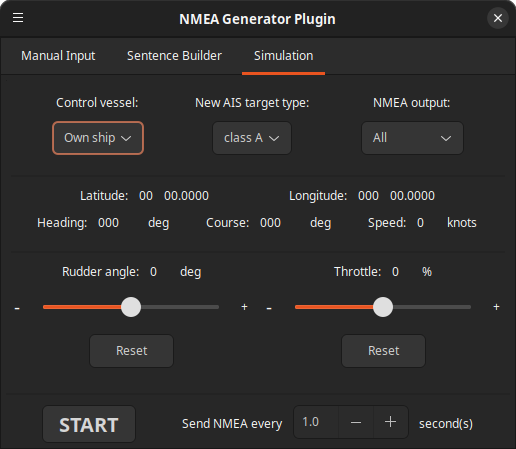
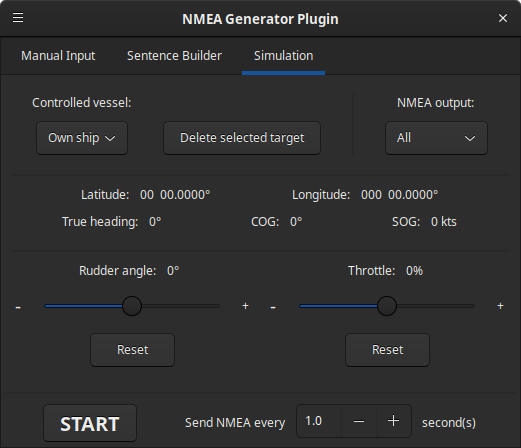
Button to delete selected AIS target

diff --git a/docs/nmeagenerator_plugin/index.html b/docs/nmeagenerator_plugin/index.html
@@ -86,10 +86,10 @@
 <h2 id="_manual_version"><a class="anchor" href="#_manual_version"></a>Manual Version</h2>
 <div class="sectionbody">
 <div class="paragraph">
-<p>This manual applies to <strong>version 1.2.0</strong>.</p>
+<p>This manual applies to <strong>version 1.2.1</strong>.</p>
 </div>
 <div class="paragraph">
-<p>See what&#8217;s changed in the <a href="https://github.com/Kupofty/NmeaGenerator_pi/blob/main/CHANGELOG.md">CHANGELOG</a>.</p>
+<p>See what&#8217;s changed in the <a href="https://github.com/Kupofty/NmeaGenerator_pi/blob/github-pages/CHANGELOG.md">CHANGELOG</a>.</p>
 </div>
 <div class="paragraph">
 <p>Previous versions of the manual:</p>
@@ -454,7 +454,7 @@ For more information, see the INSTALL.md file in the GitHub repository.</p>
 <p><strong>Control vessel:</strong> Selects the vessel currently controlled by the throttle and rudder sliders. The list always contains the own ship and any created AIS targets. Vessels that are not currently selected continue moving using their last speed and rudder settings.</p>
 </li>
 <li>
-<p><strong>AIS type:</strong> Sets the new AIS target type: Class A, Class B, or ARPA radar target.</p>
+<p><strong>Delete selected target:</strong> Delete the selected AIS target from the list. Can not delete own ship.</p>
 </li>
 <li>
 <p><strong>NMEA output:</strong> Selects which data is transmitted:</p>
@@ -540,7 +540,10 @@ For more information, see the INSTALL.md file in the GitHub repository.</p>
 <p><strong>Update position:</strong> Move the own ship or the currently selected AIS target to the cursor position.</p>
 </li>
 <li>
-<p><strong>AIS targets:</strong> Create a new AIS target at the cursor position, delete the last created AIS target, or remove all AIS targets.</p>
+<p><strong>Add AIS targets:</strong> Create a new AIS target (class A, B or ARPA) at the cursor position.</p>
+</li>
+<li>
+<p><strong>Delete AIS targets:</strong> delete the last created AIS target, or remove all AIS targets.</p>
 </li>
 </ul>
 </div>

diff --git a/src/main-ui/main_ui_base.cpp b/src/main-ui/main_ui_base.cpp
@@ -3460,7 +3460,7 @@ DialogMainGuiBase::DialogMainGuiBase( wxWindow* parent, wxWindowID id, const wxS
 	wxBoxSizer* bSizer791;
 	bSizer791 = new wxBoxSizer( wxVERTICAL );
 
-	m_staticText901 = new wxStaticText( m_scrolledWindow2, wxID_ANY, _("Control vessel:"), wxDefaultPosition, wxDefaultSize, 0 );
+	m_staticText901 = new wxStaticText( m_scrolledWindow2, wxID_ANY, _("Controlled vessel:"), wxDefaultPosition, wxDefaultSize, 0 );
 	m_staticText901->Wrap( -1 );
 	bSizer791->Add( m_staticText901, 0, wxALIGN_CENTER|wxALL, 5 );
 
@@ -3472,6 +3472,18 @@ DialogMainGuiBase::DialogMainGuiBase( wxWindow* parent, wxWindowID id, const wxS
 
 
 	bSizer_shipType->Add( bSizer791, 0, wxEXPAND, 5 );
+
+
+	bSizer_shipType->Add( 0, 0, 1, wxEXPAND, 5 );
+
+	m_button_deleteSelectedAisTarget = new wxButton( m_scrolledWindow2, wxID_ANY, _("Delete selected target"), wxDefaultPosition, wxDefaultSize, 0 );
+	bSizer_shipType->Add( m_button_deleteSelectedAisTarget, 0, wxALIGN_BOTTOM|wxALL, 5 );
+
+
+	bSizer_shipType->Add( 0, 0, 1, wxEXPAND, 5 );
+
+	m_staticline341 = new wxStaticLine( m_scrolledWindow2, wxID_ANY, wxDefaultPosition, wxDefaultSize, wxLI_VERTICAL );
+	bSizer_shipType->Add( m_staticline341, 0, wxEXPAND | wxALL, 5 );
 
 
 	bSizer_shipType->Add( 0, 0, 1, wxEXPAND, 5 );
@@ -3860,6 +3872,7 @@ DialogMainGuiBase::DialogMainGuiBase( wxWindow* parent, wxWindowID id, const wxS
 	m_checkBox_automaticSendBuilder->Connect( wxEVT_COMMAND_CHECKBOX_CLICKED, wxCommandEventHandler( DialogMainGuiBase::OnCheckBox_AutomaticSendBuilder ), NULL, this );
 	m_spinCtrlDouble_autoSendFreqBuilder->Connect( wxEVT_COMMAND_SPINCTRLDOUBLE_UPDATED, wxSpinDoubleEventHandler( DialogMainGuiBase::OnSpinCtrlDouble_AutomaticSendFreqBuilder ), NULL, this );
 	m_choice_controlledVessel->Connect( wxEVT_COMMAND_CHOICE_SELECTED, wxCommandEventHandler( DialogMainGuiBase::OnChoice_controlledVesselSimChanged ), NULL, this );
+	m_button_deleteSelectedAisTarget->Connect( wxEVT_COMMAND_BUTTON_CLICKED, wxCommandEventHandler( DialogMainGuiBase::OnButtonClick_DeleteSelectAisTarget ), NULL, this );
 	m_slider_rudderSim->Connect( wxEVT_SCROLL_TOP, wxScrollEventHandler( DialogMainGuiBase::OnScroll_UpdateRudderAngleSim ), NULL, this );
 	m_slider_rudderSim->Connect( wxEVT_SCROLL_BOTTOM, wxScrollEventHandler( DialogMainGuiBase::OnScroll_UpdateRudderAngleSim ), NULL, this );
 	m_slider_rudderSim->Connect( wxEVT_SCROLL_LINEUP, wxScrollEventHandler( DialogMainGuiBase::OnScroll_UpdateRudderAngleSim ), NULL, this );

diff --git a/src/main-ui/main_ui_base.h b/src/main-ui/main_ui_base.h
@@ -551,6 +551,8 @@ class DialogMainGuiBase : public wxDialog
 		wxScrolledWindow* m_scrolledWindow2;
 		wxStaticText* m_staticText901;
 		wxChoice* m_choice_controlledVessel;
+		wxButton* m_button_deleteSelectedAisTarget;
+		wxStaticLine* m_staticline341;
 		wxStaticText* m_staticText2072;
 		wxChoice* m_choice_nmeaOutputSim;
 		wxStaticLine* m_staticline29;
@@ -658,6 +660,7 @@ class DialogMainGuiBase : public wxDialog
 		virtual void OnCheckBox_AutomaticSendBuilder( wxCommandEvent& event ) { event.Skip(); }
 		virtual void OnSpinCtrlDouble_AutomaticSendFreqBuilder( wxSpinDoubleEvent& event ) { event.Skip(); }
 		virtual void OnChoice_controlledVesselSimChanged( wxCommandEvent& event ) { event.Skip(); }
+		virtual void OnButtonClick_DeleteSelectAisTarget( wxCommandEvent& event ) { event.Skip(); }
 		virtual void OnScroll_UpdateRudderAngleSim( wxScrollEvent& event ) { event.Skip(); }
 		virtual void OnButtonClick_ResetRudder( wxCommandEvent& event ) { event.Skip(); }
 		virtual void OnScroll_UpdateThrottleSim( wxScrollEvent& event ) { event.Skip(); }
@@ -669,7 +672,7 @@ class DialogMainGuiBase : public wxDialog
 	public:
 		wxNotebook* m_notebook;
 
-		DialogMainGuiBase( wxWindow* parent, wxWindowID id = wxID_ANY, const wxString& title = _("NMEA Generator Plugin"), const wxPoint& pos = wxDefaultPosition, const wxSize& size = wxSize( 698,663 ), long style = wxDEFAULT_DIALOG_STYLE|wxMAXIMIZE_BOX|wxMINIMIZE_BOX|wxRESIZE_BORDER );
+		DialogMainGuiBase( wxWindow* parent, wxWindowID id = wxID_ANY, const wxString& title = _("NMEA Generator Plugin"), const wxPoint& pos = wxDefaultPosition, const wxSize& size = wxSize( 957,663 ), long style = wxDEFAULT_DIALOG_STYLE|wxMAXIMIZE_BOX|wxMINIMIZE_BOX|wxRESIZE_BORDER );
 
 		~DialogMainGuiBase();
 

diff --git a/src/main-ui/main_ui_derived.cpp b/src/main-ui/main_ui_derived.cpp
@@ -1604,6 +1604,39 @@ void DialogMainGui::addAisTarget(double lat, double lon, aisType type)
   OnChoice_controlledVesselSimChanged(dummy);
 }
 
+void DialogMainGui::OnButtonClick_DeleteSelectAisTarget(wxCommandEvent& event)
+{
+  // Cannot delete OwnShip
+  if (controlledVessel == VesselType::OwnShip)
+    return;
+
+  if (m_selectedAisIndex < 0 ||
+      m_selectedAisIndex >= (int)aisTargetList.size())
+    return;
+
+  const int deletedIndex = m_selectedAisIndex;
+
+  // Remove selected AIS target
+  aisTargetList.erase(aisTargetList.begin() + deletedIndex);
+
+  // Remove corresponding entry from UI +1 because OwnShip is the first entry
+  m_choice_controlledVessel->Delete(deletedIndex + 1);
+
+  // If no AIS targets remain, select OwnShip
+  if (aisTargetList.empty())
+  {
+    m_choice_controlledVessel->SetSelection(0);
+  }
+  else
+  {
+    m_choice_controlledVessel->SetSelection(deletedIndex);
+  }
+
+  // Update controlled vessel and GUI
+  wxCommandEvent dummy;
+  OnChoice_controlledVesselSimChanged(dummy);
+}
+
 void DialogMainGui::removeLastAisTarget()
 {
   if (aisTargetList.empty())

diff --git a/src/main-ui/main_ui_derived.h b/src/main-ui/main_ui_derived.h
@@ -97,6 +97,7 @@ class DialogMainGui : public DialogMainGuiBase
     void OnChoice_aisClassVDM(wxCommandEvent& event) override;
     void OnChoice_UpdateCategoryXDR(wxCommandEvent& event) override;
     void OnText_UpdateCustomNameXDR(wxCommandEvent& event) override;
+    void OnButtonClick_DeleteSelectAisTarget(wxCommandEvent& event) override;
 
     void OnButtonClick_SendGLL(wxCommandEvent& event) override;
     void OnButtonClick_SendRMC(wxCommandEvent& event) override;

diff --git a/CHANGELOG.md b/CHANGELOG.md
@@ -4,11 +4,12 @@
 
 --------------------------------------------------------------------------------------------
 ## [v1.2.1] / 2026-xx-xx
+### Added
+- Button to delete selected AIS target from list
+
 ### Changed
 - Move new AIS target type selection in right-click menu
-- Minor labels changes
-- Minor layout tweaks
-
+- Minor UI changes
 
 --------------------------------------------------------------------------------------------
 ## [v1.2.0] / 2026-08-09
